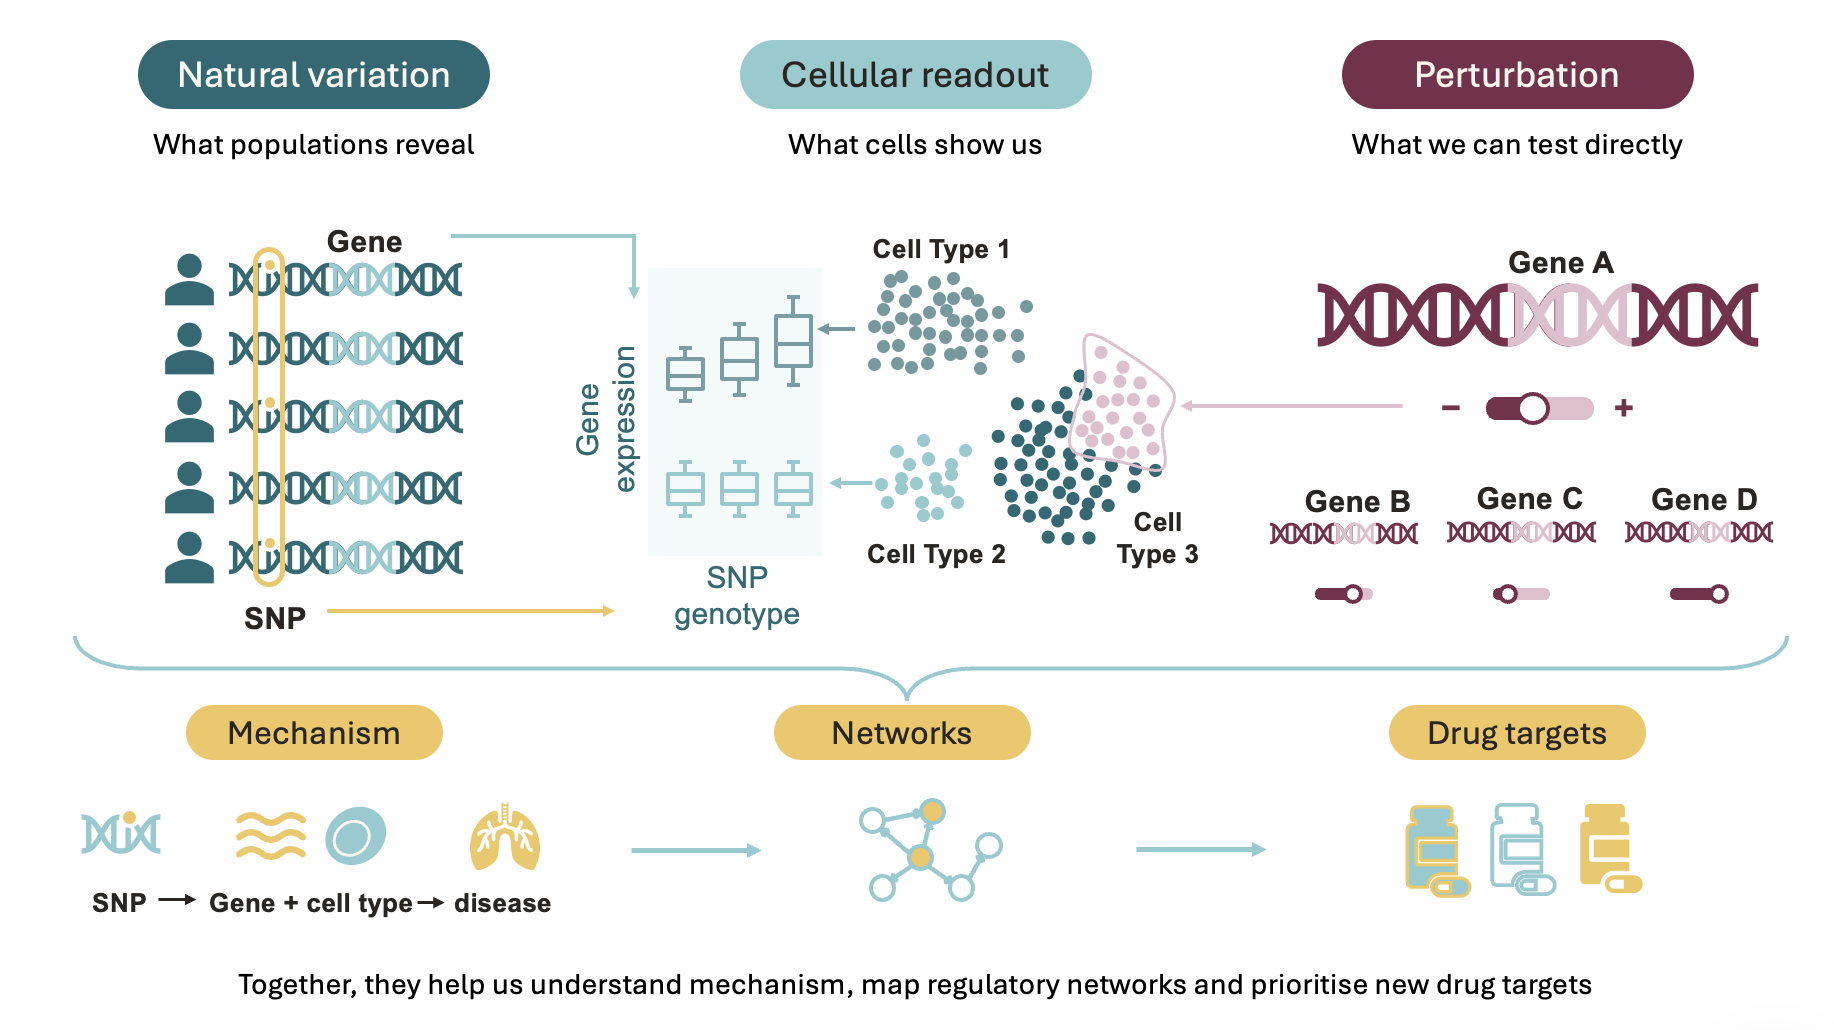
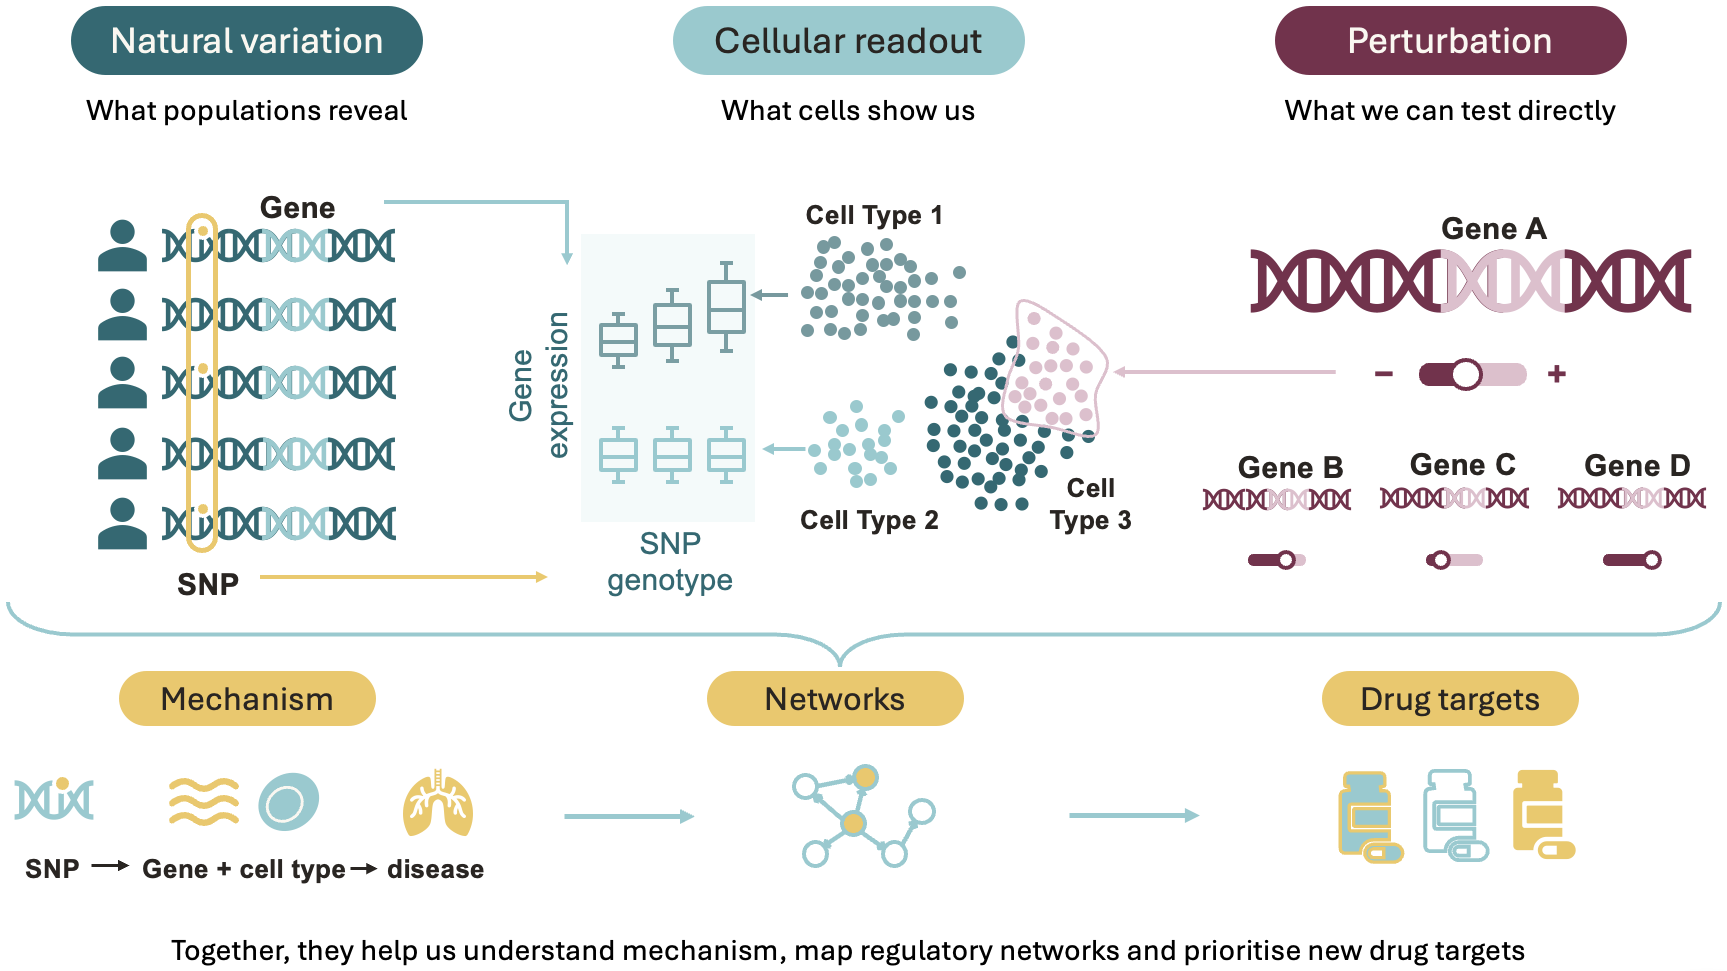
Card figures on white inside tinted cards; home infographic back without panel, trimmed to use full width
Claude-Session: https://claude.ai/code/session_01XRTpRZ8eUeJRgS5EVpmc6m

diff --git a/src/styles/global.css b/src/styles/global.css
@@ -106,10 +106,8 @@ section { padding: 0 0 64px; }
 .hero .lead { font-size: 17px; max-width: 760px; }
 .link-row { display: flex; flex-wrap: wrap; gap: 6px 20px; margin-top: 8px; font-size: 15px; }
 
-/* Tinted panel (home page research interests) */
-.panel { background: color-mix(in srgb, var(--teal-light) 16%, var(--bg)); border-radius: 8px; padding: 32px 24px; }
-@media (min-width: 760px) { .panel { padding: 40px; } }
-.panel h2 { color: var(--teal); }
+/* Home page infographic: trimmed to its content, so it lines up with the heading and uses the full width */
+.infographic { width: 100%; margin-top: 8px; }
 
 /* Publication cards */
 .card-grid { display: grid; gap: 28px; }
@@ -117,10 +115,10 @@ section { padding: 0 0 64px; }
 .card img, .card .tile { width: 100%; height: 170px; border-radius: var(--radius); }
 .card img { object-fit: contain; background: var(--bg); }  /* never crop figures */
 .card { background: color-mix(in srgb, var(--c) 12%, var(--bg)); border-radius: 8px; padding: 16px 18px 20px; }
-.card img { background: transparent; }
-.card .mat img { height: 170px; }
-.card .mat.padded { padding: 4px 6px 10px; }
-.card .mat.padded img { height: 156px; }
+.card .mat { background: #fff; border-radius: 6px; margin-bottom: 4px; }
+.card .mat img { height: 170px; background: transparent; }
+.card .mat.padded { padding: 10px; }
+.card .mat.padded img { height: 150px; }
 .tile { display: flex; align-items: flex-end; padding: 14px; color: #fff; font-weight: 600; font-size: 14px; }
 .tile-0 { background: var(--teal); }
 .tile-1 { background: var(--plum); }
